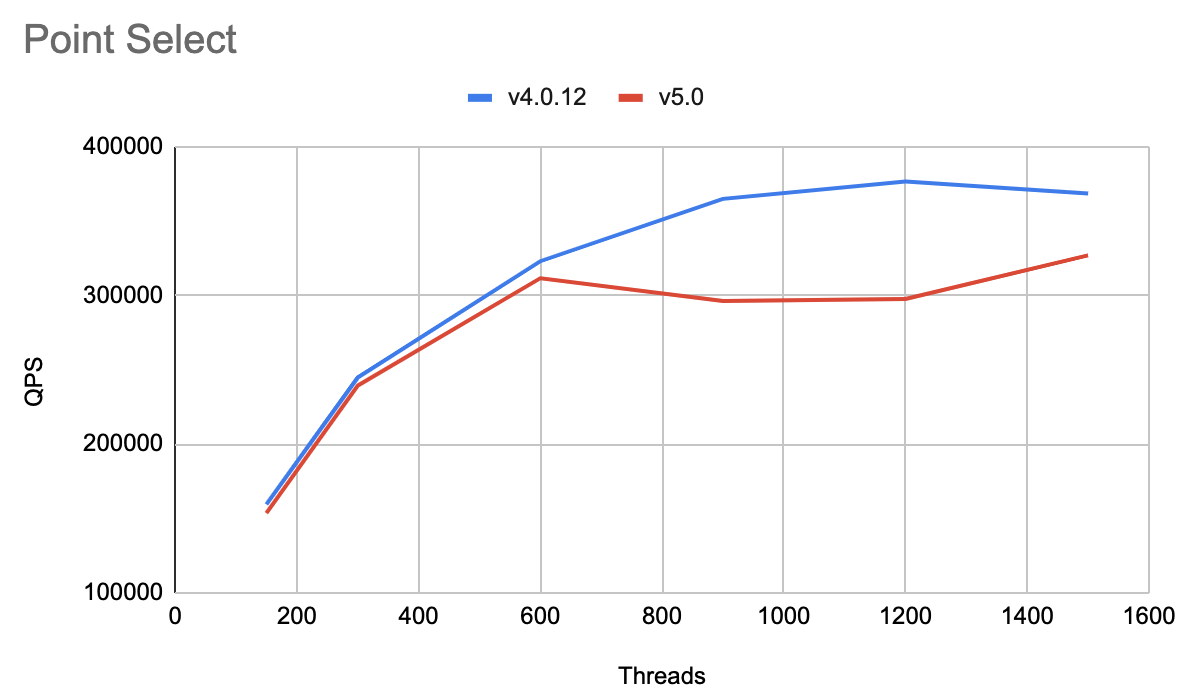
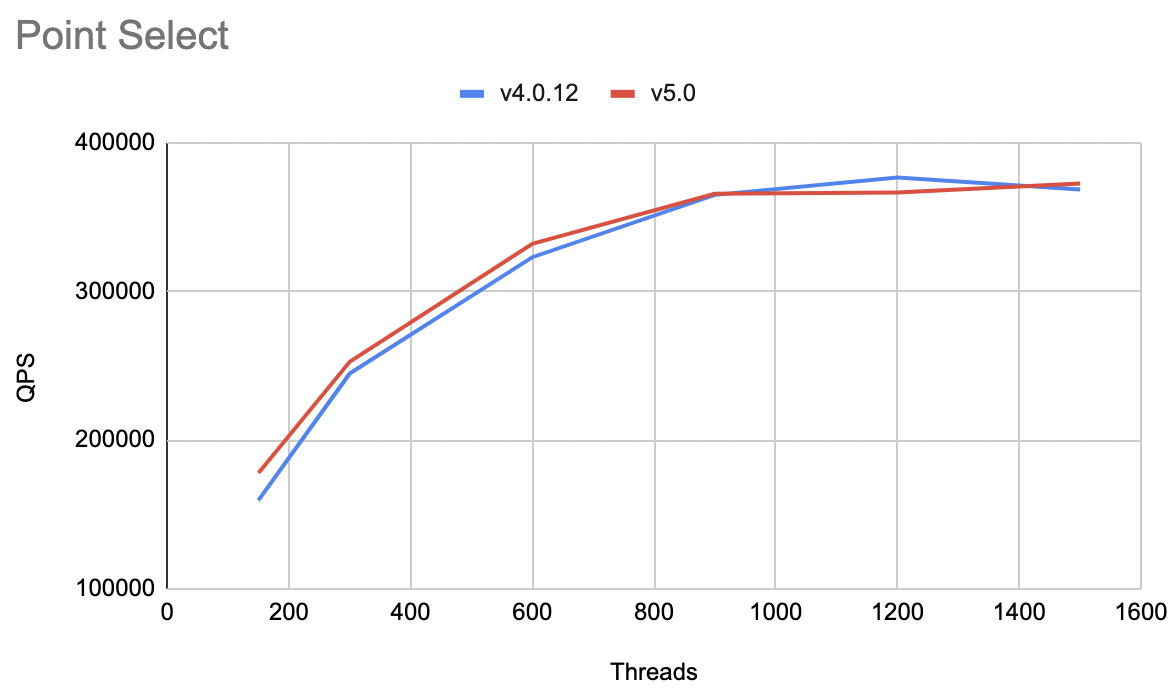
Updated the point select test results

diff --git a/benchmark/benchmark-sysbench-v5-vs-v4.md b/benchmark/benchmark-sysbench-v5-vs-v4.md
@@ -166,14 +166,14 @@ sysbench $testname \
 
 | Threads   | v4.0 QPS   | v4.0 95% latency (ms)   | v5.0 QPS   | v5.0 95% latency (ms)   | QPS 提升   |
 |:----------|:----------|:----------|:----------|:----------|:----------|
-| 150        | 159451.19        | 1.32        | 153571.37        | 1.44        | -3.83%     |
-| 300        | 244790.38        | 1.96        | 239438.64        | 2.22        | -2.24%     |
-| 600        | 322929.05        | 3.75        | 311483.52        | 3.82        | -3.67%     |
-| 900        | 364840.05        | 5.67        | 296277.87        | 7.98        | -23.14%     |
-| 1200        | 376529.18        | 7.98        | 297499.11        | 11.87        | -26.56%     |
-| 1500        | 368390.52        | 10.84        | 326877.96        | 14.46        | -12.70%     |
+| 150        | 159451.19        | 1.32        | 177876.25        | 1.23        | 11.56%     |
+| 300        | 244790.38        | 1.96        | 252675.03        | 1.82        | 3.22%     |
+| 600        | 322929.05        | 3.75        | 331956.84        | 3.36        | 2.80%     |
+| 900        | 364840.05        | 5.67        | 365655.04        | 5.09        | 0.22%     |
+| 1200        | 376529.18        | 7.98        | 366507.47        | 7.04        | -2.66%     |
+| 1500        | 368390.52        | 10.84        | 372476.35        | 8.90        | 1.11%     |
 
-v5.0 对比 v4.0，Point Select 性能下降了 12%。
+v5.0 对比 v4.0，Point Select 性能提升了 2.7%。
 
 ![Point Select](/media/sysbench_v5vsv4_point_select.png)
 
